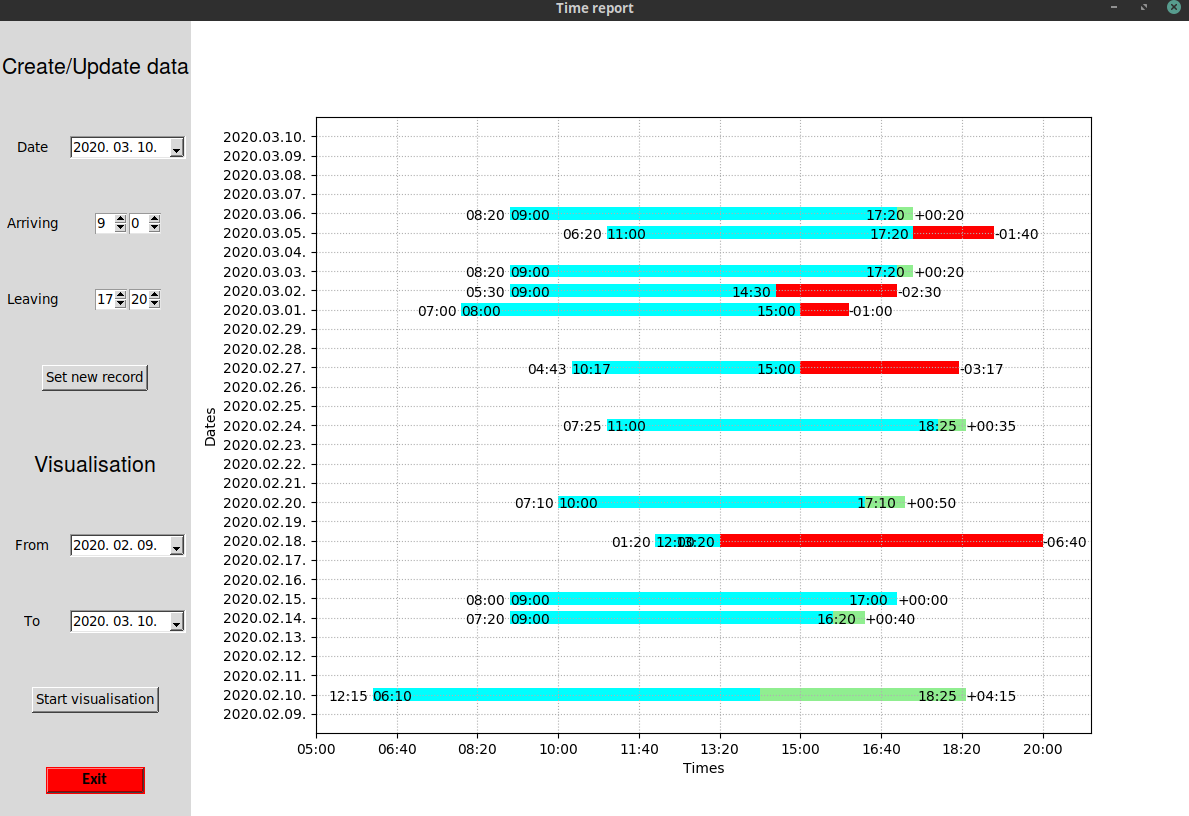
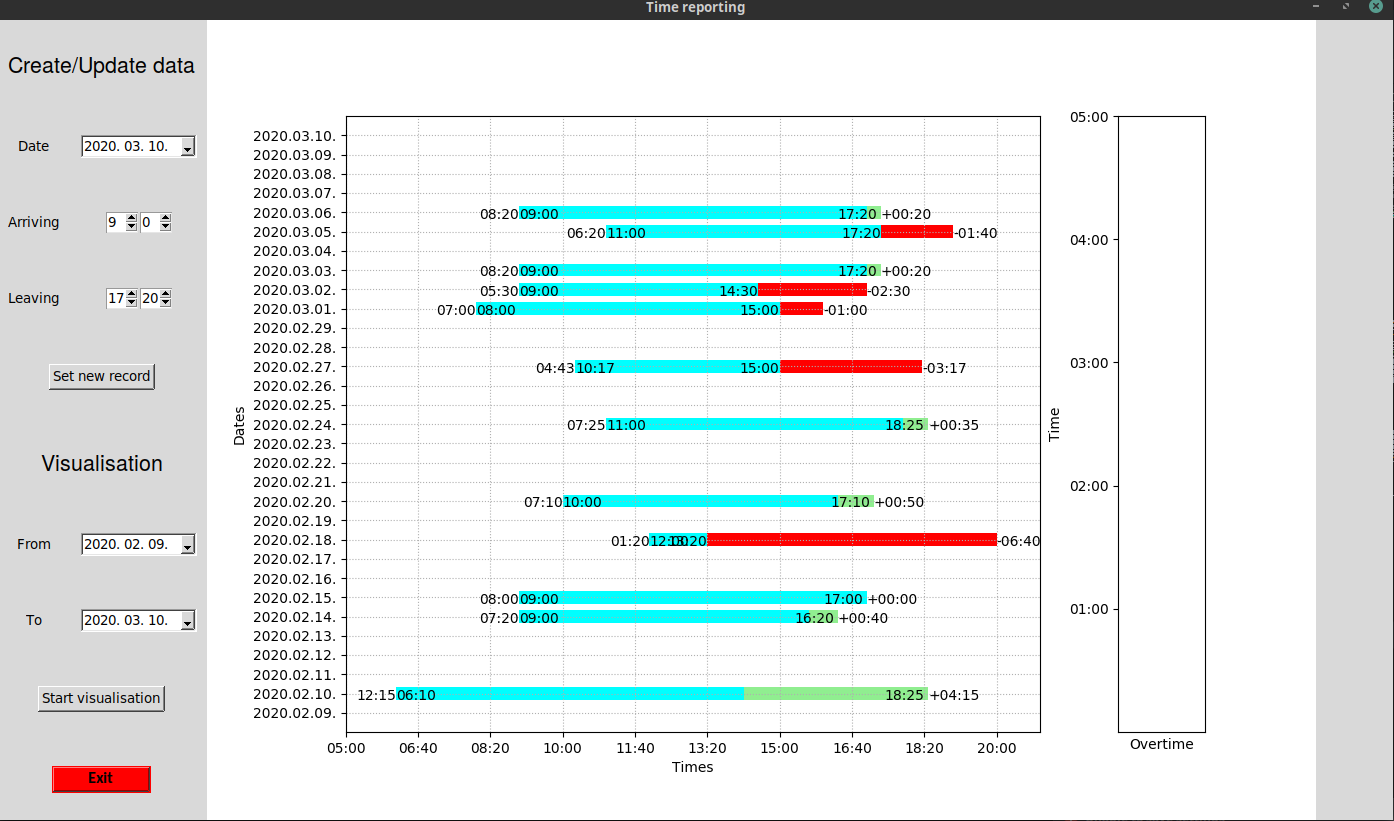
Add Overtime sub-plot to Main Window.

diff --git a/plotter3.py b/plotter3.py
@@ -77,6 +77,10 @@ class Plotter3(object):
         self.plotable_dict = self.create_plottable_dict()
         self.c_logger.info("Plottable dict has been created successfully.")
 
+        self.fig, self.axis_array = plt.subplots(
+            1, 2, figsize=(11, 8), gridspec_kw={"width_ratios": [8, 1]}
+        )
+
     def __set_x_axis_config_data(self):
         self.c_logger.info("Starting to get the X axis data from config file.")
         self.c_logger.info("The used config file: {}".format(X_AXIS_CONFIG_FILE_PATH))
@@ -135,9 +139,8 @@ class Plotter3(object):
             plus_or_minus_time = "{:02d}:{:02d}".format(int(ellapsed_hours), int(ellapsed_mins))
 
             self.c_logger.debug(
-                "Elapsed hours: {} , Elapsed minutes: {} , " "Plus or minus time: {}".format(
-                    ellapsed_hours, ellapsed_mins, plus_or_minus_time
-                )
+                "Elapsed hours: {} , Elapsed minutes: {} , "
+                "Plus or minus time: {}".format(ellapsed_hours, ellapsed_mins, plus_or_minus_time)
             )
 
             # IF YOU HAVE MINUS TIME
@@ -233,10 +236,37 @@ class Plotter3(object):
         )
         self.c_logger.info("Annotates have been created successfully.")
 
+    def plotting_plus_minus_graph(self):
+        """
+        TODO: Fill the docstring.
+        :return:
+        """
+
+        # TODO: Add the logging messages to this method.
+        self.c_logger.info("Starting to plot the plus/minus hours in the data range.")
+
+        # TODO: Fill the method with data and plot the bar graph.
+        plus_minus__time_axis = self.axis_array[1]
+        self.c_logger.info("Set X label to 'Times'")
+        plus_minus__time_axis.set_xlabel("Overtime")
+        self.c_logger.info("Set Y label to 'Dates'")
+        plus_minus__time_axis.set_ylabel("Time")
+
+        self.c_logger.info("Set Y ticks")
+        plus_minus__time_axis.set_yticks([1, 2, 3, 4, 5])
+        self.c_logger.info("Set Y tick labels")
+        plus_minus__time_axis.set_yticklabels(["01:00", "02:00", "03:00", "04:00", "05:00"])
+
+        self.c_logger.info("Set X ticks")
+        plus_minus__time_axis.set_xticks([])
+        self.c_logger.info("Set X tick labels")
+        plus_minus__time_axis.set_xticklabels([])
+
     def plotting(self):
+        # TODO: Refactor the names and structure (Due to new subplot has been added.).
         self.c_logger.info("Starting to plot the data")
-        fig, ax = plt.subplots(figsize=(10, 8))
-        self.c_logger.info("Fig: {} , AX: {}".format(fig, ax))
+        working_time_axis = self.axis_array[0]
+        self.c_logger.info("Fig: {} , AX: {}".format(self.fig, working_time_axis))
         y_place = 2
         self.c_logger.info("Y place: {}".format(y_place))
         self.c_logger.info("Start to render the plottable data to figure.")
@@ -249,7 +279,7 @@ class Plotter3(object):
                 # IF WE HAVE OFF DAY
                 if single_dict["minus"] == 480:
                     self.c_logger.debug("This is an off day.")
-                    ax.broken_barh(
+                    working_time_axis.broken_barh(
                         [
                             (single_dict["from"], single_dict["to"] - single_dict["from"]),
                             (single_dict["to"], single_dict["to"],),
@@ -261,7 +291,7 @@ class Plotter3(object):
                     y_place += 3
                 else:
                     self.c_logger.debug("There is not an off day.")
-                    ax.broken_barh(
+                    working_time_axis.broken_barh(
                         [
                             (single_dict["from"], single_dict["to"] - single_dict["from"]),
                             (single_dict["to"], single_dict["minus"] - single_dict["to"],),
@@ -270,12 +300,12 @@ class Plotter3(object):
                         facecolors=("aqua", "red"),
                         hatch="",
                     )
-                    self.create_annotate(ax, y_place, single_dict)
+                    self.create_annotate(working_time_axis, y_place, single_dict)
                     y_place += 3
             # IF WE HAVE PLUS HOURS
             else:
                 self.c_logger.debug("There are plus hours")
-                ax.broken_barh(
+                working_time_axis.broken_barh(
                     [
                         (single_dict["from"], single_dict["to"] - single_dict["from"]),
                         (single_dict["to"], single_dict["plus"],),
@@ -284,35 +314,37 @@ class Plotter3(object):
                     facecolors=("aqua", "lightgreen"),
                     hatch="",
                 )
-                self.create_annotate(ax, y_place, single_dict)
+                self.create_annotate(working_time_axis, y_place, single_dict)
                 y_place += 3
 
         self.c_logger.info("Set Y limit: 0, {}".format(self.y_axis_limit))
-        ax.set_ylim(0, self.y_axis_limit)
+        working_time_axis.set_ylim(0, self.y_axis_limit)
         self.c_logger.info("Set X limit: {}, {}".format(min(self.x_axis_ticks), self.y_axis_limit))
-        ax.set_xlim(min(self.x_axis_ticks), self.x_axis_limit)
+        working_time_axis.set_xlim(min(self.x_axis_ticks), self.x_axis_limit)
 
         self.c_logger.info("Set X label to 'Times'")
-        ax.set_xlabel("Times")
+        working_time_axis.set_xlabel("Times")
         self.c_logger.info("Set Y label to 'Dates'")
-        ax.set_ylabel("Dates")
+        working_time_axis.set_ylabel("Dates")
 
         self.c_logger.info("Set Y ticks")
-        ax.set_yticks(self.y_axis_ticks)
+        working_time_axis.set_yticks(self.y_axis_ticks)
         self.c_logger.info("Set Y tick labels")
-        ax.set_yticklabels(self.dates)
+        working_time_axis.set_yticklabels(self.dates)
 
         self.c_logger.info("Set X ticks")
-        ax.set_xticks(self.x_axis_ticks)
+        working_time_axis.set_xticks(self.x_axis_ticks)
         self.c_logger.info("Set X tick labels")
-        ax.set_xticklabels(self.x_axis_tick_labels)
+        working_time_axis.set_xticklabels(self.x_axis_tick_labels)
 
         self.c_logger.info("Set grid of figure")
-        ax.grid(True, linestyle=":")
+        working_time_axis.grid(True, linestyle=":")
 
         self.c_logger.info("Return the generated figure.")
-        return fig
+        self.plotting_plus_minus_graph()
+
         # plt.show()
+        return self.fig
 
 
 if __name__ == "__main__":

diff --git a/gui.py b/gui.py
@@ -158,7 +158,7 @@ class MainWindow(object):
         self.c_logger = c_logger
         self.main_window = main_window
         self.c_logger.info("Get main window: {}".format(main_window))
-        self.main_window.title("Time report")
+        self.main_window.title("Time reporting")
         self.c_logger.info("Set window title to 'Time report'")
         self.main_window.protocol("WM_DELETE_WINDOW", self.__disable_event)
 

diff --git a/README.md b/README.md
@@ -1,3 +1,5 @@
 # Working-time reporting tool
-Main window of tool:
+Main window of tool (In progress):
 ![Main window example](imgs/main_window_example.png)
+
+TODO: Fill the README.md with content!
